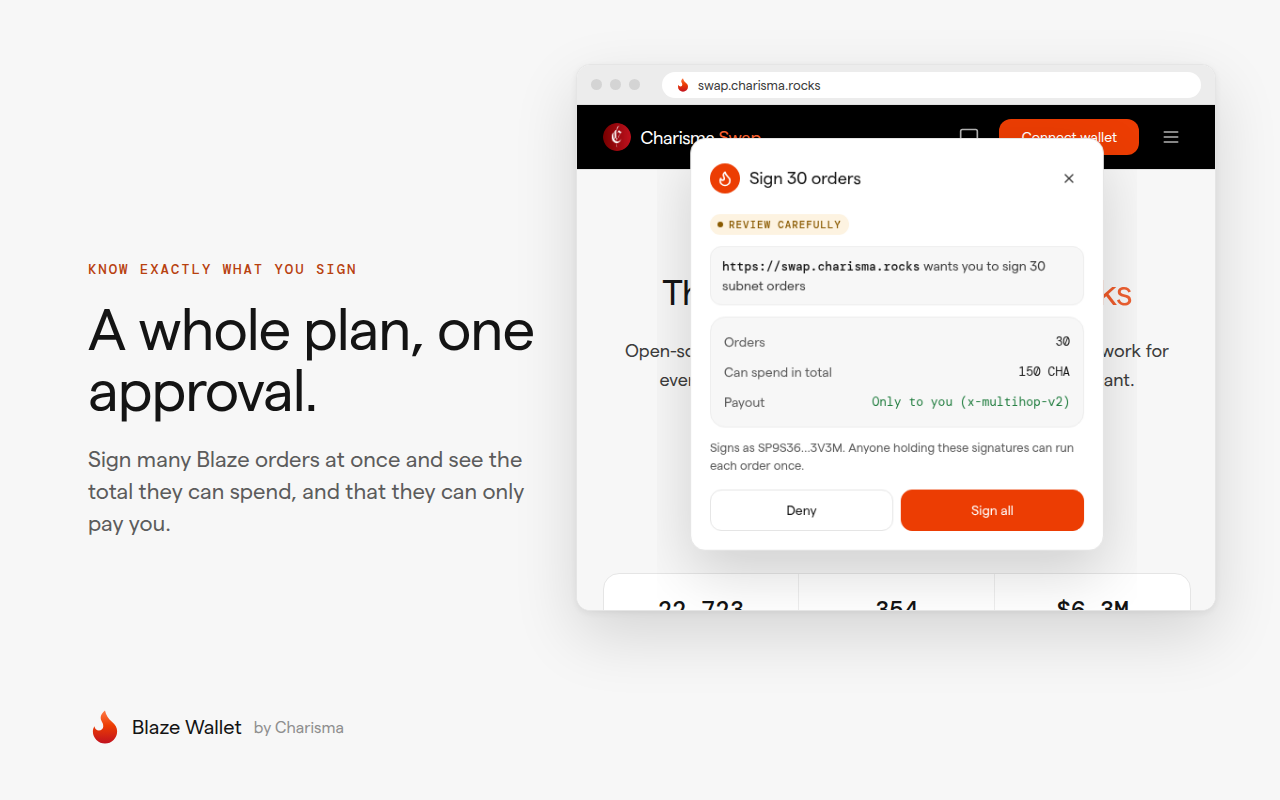
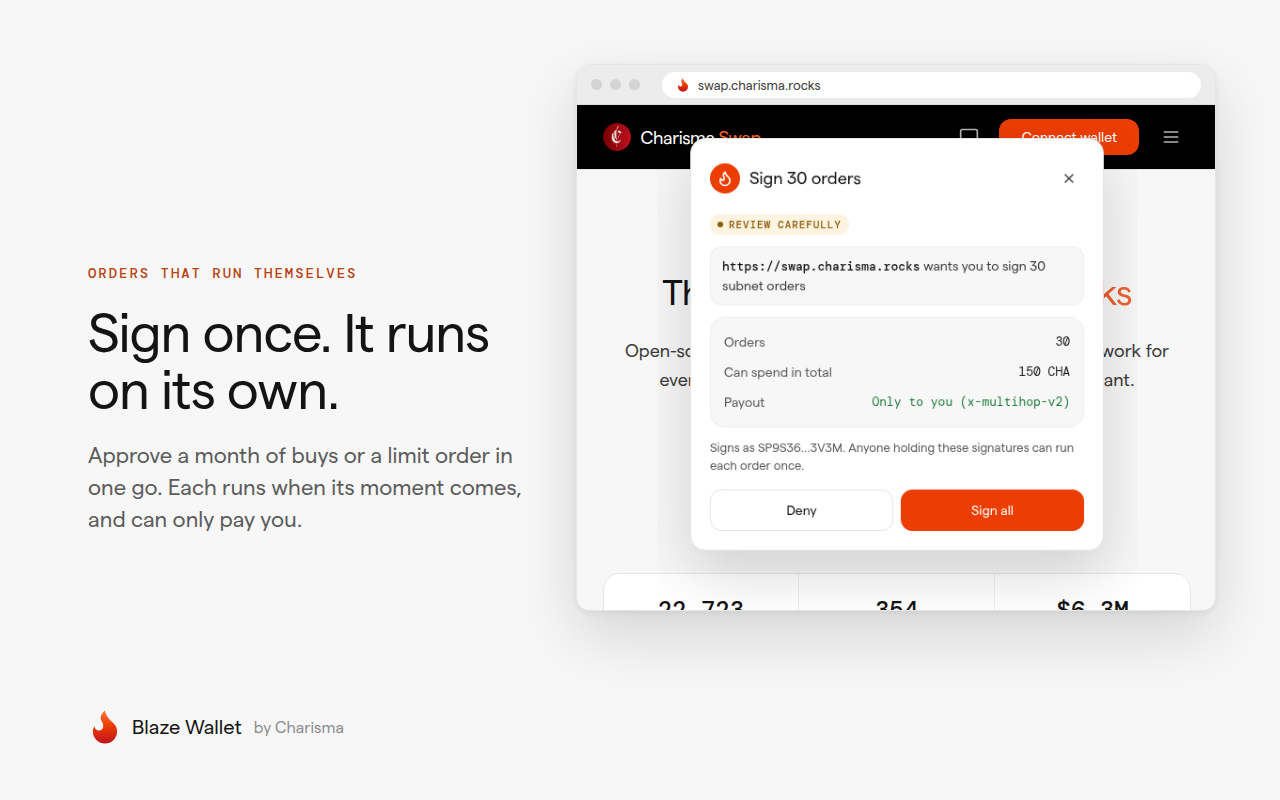
feat(signet): lead with what Blaze lets you do; Status shows users only what's theirs to know
- Store listing, extension description, screenshots and promo tiles now open with power: do more on Stacks,
  sign once for orders that run on their own, fast where it can be and on-chain where it counts; safety second
- Status: no more "Need tidier details" or "Couldn't read"; an unreadable subnet is a token-cache data bug,
  logged to the console for developers

Changed region(s): [[0.0625, 0.375, 0.4375, 0.5312], [0.0625, 0.5625, 0.4062, 0.6875], [0.0625, 0.3125, 0.2812, 0.3438]]

diff --git a/apps/signet/src/background/lib/diagnostics.ts b/apps/signet/src/background/lib/diagnostics.ts
@@ -15,11 +15,8 @@ export interface SubnetDiagnostic {
   decimals: number
   /** The on-chain token it holds, when the token cache says */
   base: string | null
-  /** This account's balance in smallest units, or null when the read failed (see error) */
+  /** This account's balance in smallest units, or null when the read failed (logged for developers) */
   balance: string | null
-  error?: string
-  /** Metadata problems worth cleaning up */
-  issues: string[]
 }
 
 export interface Diagnostics {
@@ -43,15 +40,6 @@ async function timed<T>(work: () => Promise<T>): Promise<{ value: T; latencyMs: 
   const start = performance.now()
   const value = await work()
   return { value, latencyMs: Math.round(performance.now() - start) }
-}
-
-function issuesOf(token: { contractId: string; symbol: string; base?: string | null }) {
-  const name = token.contractId.split(".")[1]
-  const issues: string[] = []
-  if (!token.base) issues.push("doesn't say which token it holds")
-  if (!token.symbol || token.symbol === name) issues.push("no proper symbol")
-  if (/-rc\d+$/.test(name)) issues.push("older release")
-  return issues
 }
 
 async function subnetBalance(contractId: string, address: string): Promise<string> {
@@ -84,11 +72,13 @@ export async function getDiagnostics(): Promise<Diagnostics> {
   const subnetTokens = cache.value.filter(token => token.type === "SUBNET")
   const subnets = await inBatches(subnetTokens, 4, async (token): Promise<SubnetDiagnostic> => {
     const base = (token as { base?: string | null }).base ?? null
-    const entry = { contractId: token.contractId, symbol: token.symbol, decimals: token.decimals, base, issues: issuesOf({ ...token, base }) }
+    const entry = { contractId: token.contractId, symbol: token.symbol, decimals: token.decimals, base }
     try {
       return { ...entry, balance: await subnetBalance(token.contractId, account.stxAddress) }
     } catch (error) {
-      return { ...entry, balance: null, error: (error as Error).message }
+      // A subnet that can't be read is a token-cache data bug for developers to fix, not news for the user
+      console.error(`[signet] Couldn't read ${token.contractId}'s balance: ${(error as Error).message}`)
+      return { ...entry, balance: null }
     }
   })
 

diff --git a/apps/signet/src/sidepanel/StatusTab.tsx b/apps/signet/src/sidepanel/StatusTab.tsx
@@ -26,8 +26,6 @@ function Speed({ ms }: { ms: number }) {
 export function StatusTab() {
   const { diag, loading, error, refresh } = useDiagnostics()
   const held = diag?.subnets.filter(subnet => subnet.balance && subnet.balance !== "0") ?? []
-  const failed = diag?.subnets.filter(subnet => subnet.balance === null) ?? []
-  const messy = diag?.subnets.filter(subnet => subnet.issues.length > 0) ?? []
   const lockMinutes = diag?.account.lockExpiresAt ? Math.max(0, Math.ceil((diag.account.lockExpiresAt - Date.now()) / 60000)) : null
   const state = error ? { text: "Error", tone: "danger" } : !diag ? { text: "Checking", tone: "warning" } : { text: "Live", tone: "success" }
 
@@ -60,8 +58,6 @@ export function StatusTab() {
 
       <Card title="Blaze subnets" right={diag && <span className="cx-pill cx-pill-plain">{diag.subnets.length}</span>}>
         <Kv label="Holding your funds">{diag ? held.length : "—"}</Kv>
-        {messy.length > 0 && <Kv label="Need tidier details" tone="warning">{messy.length}</Kv>}
-        {failed.length > 0 && <Kv label="Couldn't read" tone="danger">{failed.length}</Kv>}
         {diag && (
           held.length > 0 ? (
             <div style={{ marginTop: "8px" }}>

diff --git a/apps/signet/store-assets/LISTING.md b/apps/signet/store-assets/LISTING.md
@@ -7,7 +7,7 @@ Upload `build/blaze-wallet-chrome.zip` (made by `pnpm package:store` in apps/sig
 **Name:** Blaze Wallet
 
 **Summary** (132 characters max):
-> The wallet for Stacks and Blaze subnets. Connect to any Stacks app, sign and send, and see exactly what you approve.
+> Do more on Stacks. Sign once for limit orders and scheduled buys that run on their own, settled on-chain and paid only to you.
 
 **Category:** Tools (or Productivity; pick in the dashboard)
 
@@ -15,28 +15,25 @@ Upload `build/blaze-wallet-chrome.zip` (made by `pnpm package:store` in apps/sig
 
 **Description:**
 
-> Blaze Wallet is a Stacks wallet that lives in Chrome's side panel, built by Charisma for Stacks apps and Blaze subnets.
+> Blaze Wallet upgrades how you use Stacks. It does everything a Stacks wallet does, and adds Blaze: sign an order once and it runs on its own when its moment comes, settled on-chain and paid only to you. Built by Charisma, it lives in Chrome's side panel.
 >
-> CONNECT TO ANY STACKS APP
+> SIGN ONCE, IT RUNS ON ITS OWN
+> Limit orders and scheduled buys are signed ahead of time and run when their price or time arrives. Approve a whole plan, like a month of buys, with one card that shows how many orders there are, the total they can spend, and that they can only pay you.
+>
+> FAST WHERE IT CAN BE, ON-CHAIN WHERE IT COUNTS
+> Blaze subnets move tokens as signed messages and settle every trade on the Stacks blockchain. The Status tab shows the network, Charisma's token list, and every Blaze subnet with your balance on each, read straight from the chain.
+>
+> WORKS WITH ANY STACKS APP
 > Blaze Wallet speaks the standard Stacks wallet language, so it shows up in any app's "Connect wallet" list. Connect, sign messages, send STX and tokens, and run contract calls.
->
-> APPROVALS NOBODY CAN FAKE
-> Every request opens a sealed approval card that the website can't read or click. Approve stays locked until the card has been fully visible, so a site can't trick you by covering it.
->
-> KNOW EXACTLY WHAT YOU SIGN
-> Blaze subnet orders are shown in plain words: the action, the token, the amount, and who can be paid. Transactions list exactly which tokens can leave your wallet, and warn loudly when a site asks for more.
->
-> A WHOLE PLAN, ONE APPROVAL
-> Sign many Blaze orders at once, like a month of scheduled buys. One card shows how many there are, the total they can spend, and that they can only pay you.
 >
 > EVERY TOKEN, ONE VIEW
 > Balances with logos and dollar values. Sends allow exactly the amount you choose. Tokens that aren't on Charisma's token list, like scam airdrops, are tucked away and can't be sent by mistake.
 >
-> YOUR KEYS STAY WITH YOU
-> Your seed phrase and keys are encrypted in your browser with your password and never sent anywhere. The wallet locks itself after 15 minutes idle. New seed phrases must be written down and confirmed before they're saved.
+> KNOW EXACTLY WHAT YOU SIGN
+> Orders are shown in plain words: the action, the token, the amount, and who can be paid. Transactions list exactly which tokens can leave your wallet, and warn loudly when a site asks for more. Every request opens a sealed card the website can't read, cover or click.
 >
-> LIVE NETWORK VIEW
-> The Status tab shows the Stacks network, Charisma's token list, and every Blaze subnet with your balance on each, read straight from the blockchain.
+> YOUR KEYS STAY YOURS
+> Your seed phrase and keys are encrypted in your browser with your password and never sent anywhere. The wallet locks itself after 15 minutes idle. New seed phrases must be written down and confirmed before they're saved.
 >
 > LIGHT OR DARK
 > Charisma's Light · Bitcoin and Dark · RPG looks. Blaze Wallet follows your device, or pick one in the Vault.
